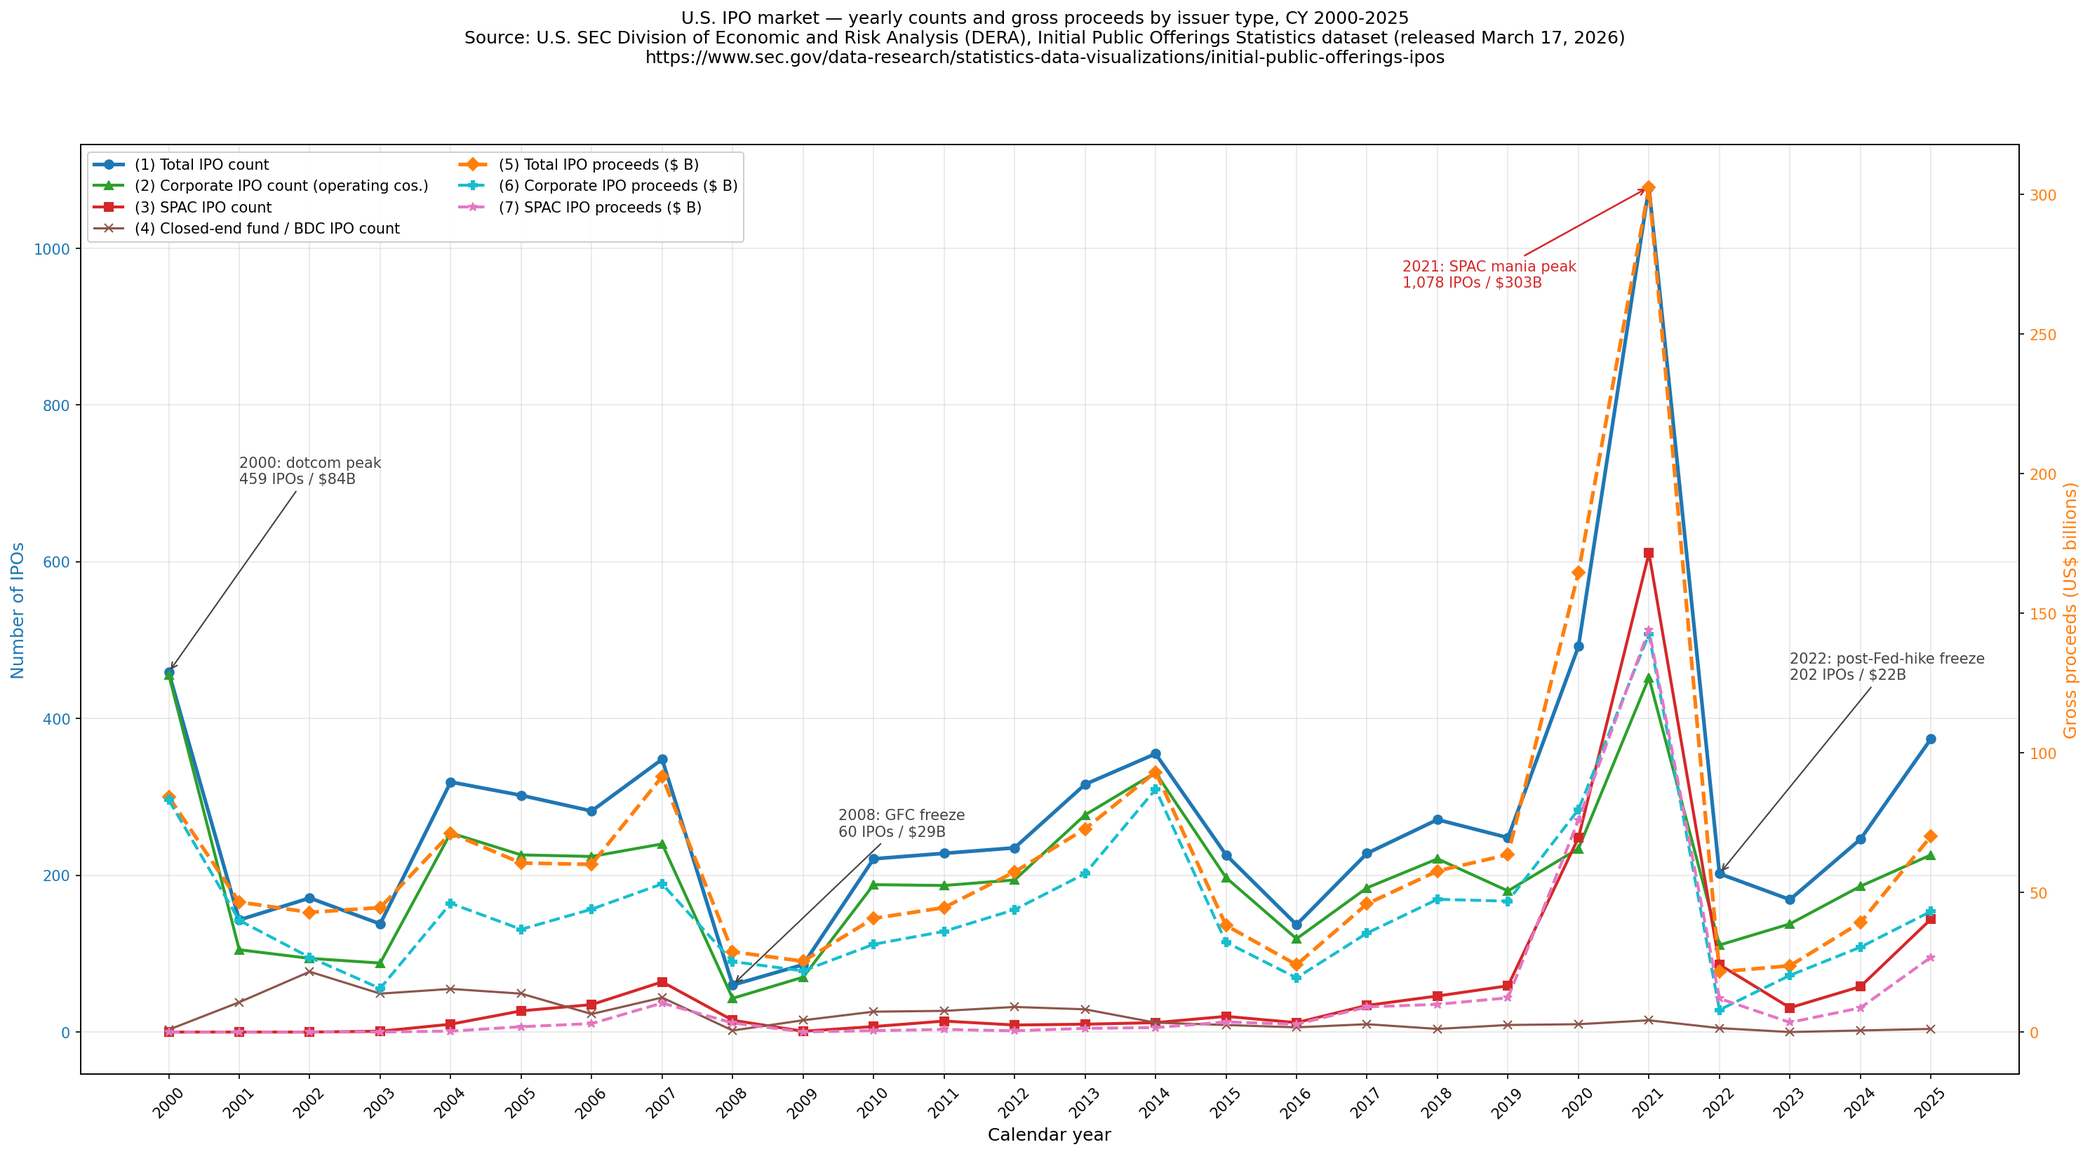
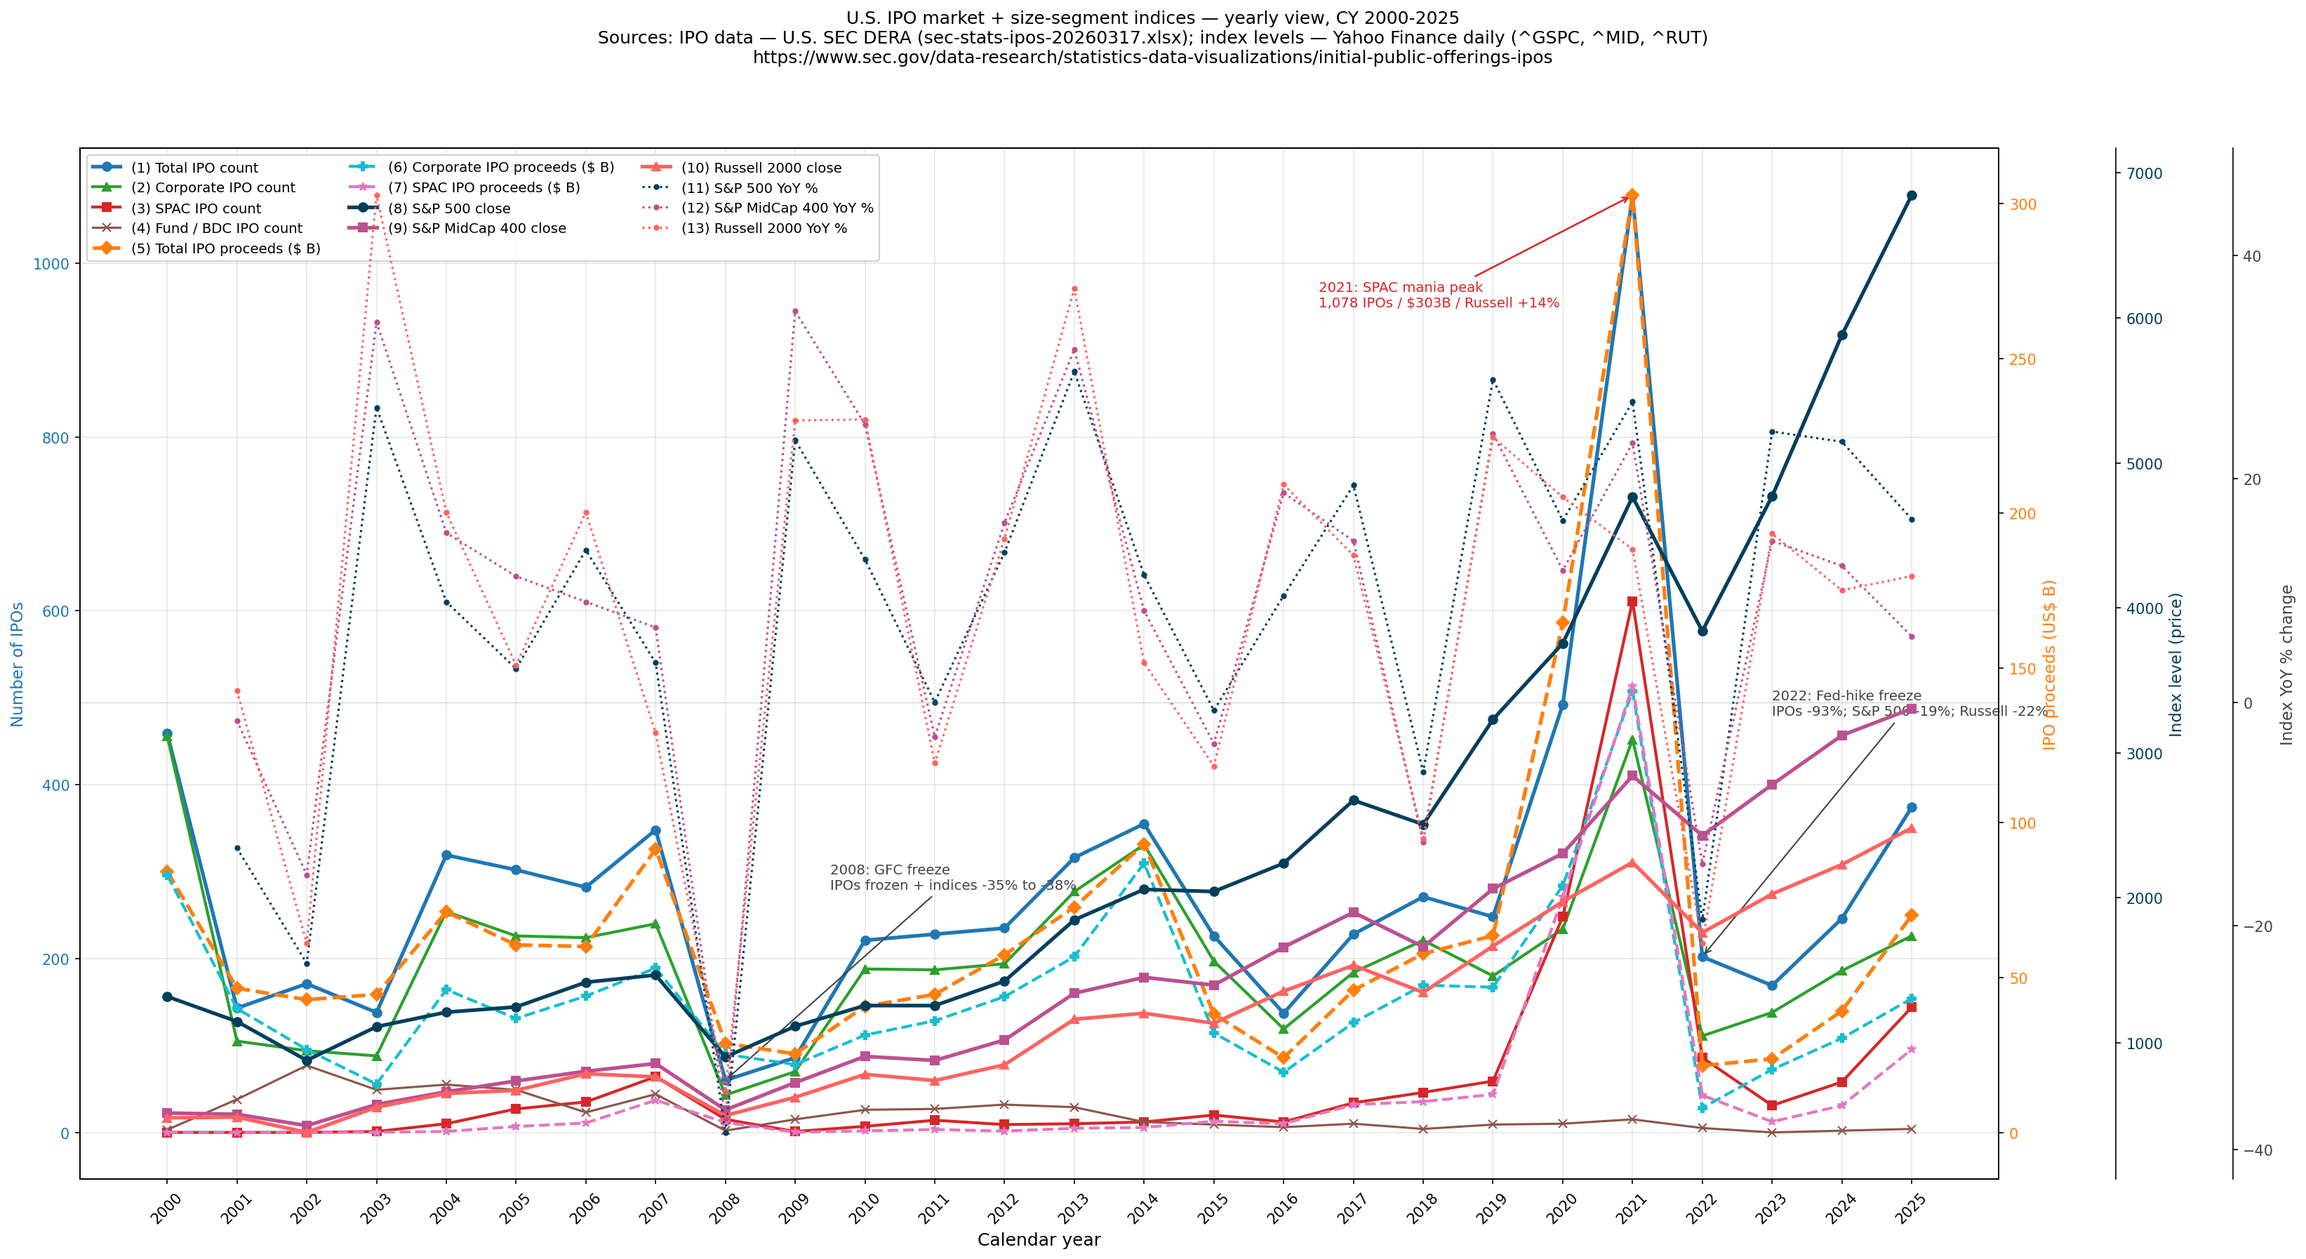
Add US index levels + YoY % to interactive HTML and static PNG
Added 6 new line traces to MarketTiming/US/us_ipo_interactive.html
and MarketTiming/US/us_ipo_combined.png:

  Index levels (new yaxis4, right side at position 1.12):
  - (13) S&P 500 year-end close (navy #003f5c, defaultOn)
  - (14) S&P MidCap 400 year-end close (magenta #bc5090, defaultOn)
  - (15) Russell 2000 year-end close (coral #ff6361, defaultOn)

  Index YoY % changes (new yaxis5, right side at position 1.18):
  - (16) S&P 500 YoY % (defaultOn=false)
  - (17) S&P MidCap 400 YoY % (defaultOn=false)
  - (18) Russell 2000 YoY % (defaultOn=false)

Each pair shares a color across the index-level + YoY% versions
(solid line for level, dashed for YoY %) so visual identity tracks
the index across the two axes.

HTML changes:
- DATA payload extended with 6 new arrays (sp500_level, sp500_yoy,
  sp400_level, sp400_yoy, rut_level, rut_yoy) — 26 elements each
- MAIN_LAYOUT margin widened (r: 220 -> 320) and legend offset to
  x=1.22 to fit two new right-side axes
- Two new buttons in the preset bar: "Indices only" and "Index YoY only"
- Two new categories added to the checkbox panel:
  'Index level' and 'Index YoY %'
- Subtitle updated to mention the new series + Yahoo Finance source
- Total SERIES count: 12 -> 18; categories: 4 -> 6

Static PNG changes (plot_us_ipo.py):
- Refactored load() to merge the three index CSVs into the IPO
  dataframe, computing YoY % on the fly
- Plot now has 4 y-axes: counts (left), proceeds (right +0px),
[…]

diff --git a/MarketTiming/US/us_ipo_interactive.html b/MarketTiming/US/us_ipo_interactive.html
@@ -53,14 +53,15 @@
 <script src="https://cdn.plot.ly/plotly-2.35.2.min.js"></script>
 </head>
 <body>
-<h1>U.S. IPO market — interactive view, calendar years 2000-2025</h1>
+<h1>U.S. IPO market + size-segment indices — interactive view, calendar years 2000-2025</h1>
 <div class="subtitle">
-  IPO counts and gross proceeds by issuer type (corporate operating companies,
-  SPACs, closed-end funds / BDCs). Toggle individual series via the checkboxes
-  or the chart legend. Source:
+  IPO counts and gross proceeds by issuer type (corporate operating companies, SPACs,
+  closed-end funds / BDCs) plus year-end values and YoY % returns for the S&amp;P 500,
+  S&amp;P MidCap 400, and Russell 2000. Toggle individual series via the checkboxes or
+  the chart legend. Sources: IPO data —
   <a href="https://www.sec.gov/data-research/statistics-data-visualizations/initial-public-offerings-ipos"
-     target="_blank">U.S. SEC Division of Economic and Risk Analysis (DERA)</a>,
-  IPO Statistics dataset (release of March 17, 2026).
+     target="_blank">U.S. SEC DERA</a> (release of March 17, 2026); index levels —
+  Yahoo Finance daily (cross-checked vs FRED for S&amp;P 500 over its 10-year licensing window).
 </div>
 
 <div class="controls">
@@ -88,6 +89,8 @@
     <button onclick="setPresetProceeds()">Show proceeds only</button>
     <button onclick="setPresetCorporate()">Corporate only</button>
     <button onclick="setPresetSpac()">SPAC only</button>
+    <button onclick="setPresetIndices()">Indices only</button>
+    <button onclick="setPresetIndexYoy()">Index YoY only</button>
     <button onclick="setDefault()">Default</button>
   </div>
 </div>
@@ -497,6 +500,36 @@ const DATA = {
     null, null, null, null, null, null, null, null, null, null,
     null, null, null, null, null, null, null, null, null, null,
     null, null, null, null, null, null
+  ],
+  "sp500_level": [
+    1320.28, 1148.08, 879.82, 1111.92, 1211.92, 1248.29, 1418.30, 1468.36, 903.25, 1115.10,
+    1257.64, 1257.60, 1426.19, 1848.36, 2058.90, 2043.94, 2238.83, 2673.61, 2506.85, 3230.78,
+    3756.07, 4766.18, 3839.50, 4769.83, 5881.63, 6845.50
+  ],
+  "sp500_yoy": [
+    null, -13.04, -23.37, 26.38, 8.99, 3.00, 13.62, 3.53, -38.49, 23.45,
+    12.78, 0.00, 13.41, 29.60, 11.39, -0.73, 9.54, 19.42, -6.24, 28.88,
+    16.26, 26.89, -19.44, 24.23, 23.31, 16.39
+  ],
+  "sp400_level": [
+    516.74, 508.31, 429.79, 576.01, 663.31, 738.05, 804.37, 858.20, 538.28, 726.67,
+    907.25, 879.16, 1020.43, 1342.53, 1452.44, 1398.58, 1660.58, 1900.57, 1663.04, 2063.02,
+    2306.62, 2842.00, 2430.38, 2781.54, 3120.94, 3305.14
+  ],
+  "sp400_yoy": [
+    null, -1.63, -15.45, 34.02, 15.16, 11.27, 8.99, 6.69, -37.28, 35.00,
+    24.85, -3.10, 16.07, 31.57, 8.19, -3.71, 18.73, 14.45, -12.50, 24.05,
+    11.81, 23.21, -14.48, 14.45, 12.20, 5.90
+  ],
+  "rut_level": [
+    483.53, 488.50, 383.09, 556.91, 651.57, 673.22, 787.66, 766.03, 499.45, 625.39,
+    783.65, 740.92, 849.35, 1163.64, 1204.70, 1135.89, 1357.13, 1535.51, 1348.56, 1668.47,
+    1974.86, 2245.31, 1761.25, 2027.07, 2230.16, 2481.91
+  ],
+  "rut_yoy": [
+    null, 1.03, -21.58, 45.37, 17.00, 3.32, 17.00, -2.75, -34.80, 25.22,
+    25.31, -5.45, 14.63, 37.00, 3.53, -5.71, 19.48, 13.14, -12.18, 23.72,
+    18.36, 13.69, -21.56, 15.09, 10.02, 11.29
   ]
 };
 const YRS = DATA.years;
@@ -573,14 +606,54 @@ const SERIES = [
       line:{color:'#c5b0d5', width:1.5, dash:'dot'}, yaxis:'y3',
       hovertemplate: '%{x}: <b>$%{y:.1f}M</b><extra>Median deal</extra>' },
     swatch:'dashed', color:'#c5b0d5', defaultOn:false },
+
+  // US index levels -> y4 (right axis, position 1.12)
+  { id:'sp500_lvl', label:'(13) S&P 500 year-end close', cat:'Index level',
+    trace: { name:'(13) S&P 500 close', x:YRS, y:DATA.sp500_level,
+      mode:'lines+markers', marker:{symbol:'circle', size:6},
+      line:{color:'#003f5c', width:2.5}, yaxis:'y4',
+      hovertemplate: '%{x}: <b>%{y:,.2f}</b><extra>S&P 500</extra>' },
+    swatch:'solid', color:'#003f5c', defaultOn:true },
+  { id:'sp400_lvl', label:'(14) S&P MidCap 400 year-end close', cat:'Index level',
+    trace: { name:'(14) S&P MidCap 400 close', x:YRS, y:DATA.sp400_level,
+      mode:'lines+markers', marker:{symbol:'square', size:6},
+      line:{color:'#bc5090', width:2.5}, yaxis:'y4',
+      hovertemplate: '%{x}: <b>%{y:,.2f}</b><extra>S&P 400</extra>' },
+    swatch:'solid', color:'#bc5090', defaultOn:true },
+  { id:'rut_lvl', label:'(15) Russell 2000 year-end close', cat:'Index level',
+    trace: { name:'(15) Russell 2000 close', x:YRS, y:DATA.rut_level,
+      mode:'lines+markers', marker:{symbol:'triangle-up', size:6},
+      line:{color:'#ff6361', width:2.5}, yaxis:'y4',
+      hovertemplate: '%{x}: <b>%{y:,.2f}</b><extra>Russell 2000</extra>' },
+    swatch:'solid', color:'#ff6361', defaultOn:true },
+
+  // US index YoY % -> y5 (right axis, position 1.18)
+  { id:'sp500_yoy', label:'(16) S&P 500 YoY %', cat:'Index YoY %',
+    trace: { name:'(16) S&P 500 YoY %', x:YRS, y:DATA.sp500_yoy,
+      mode:'lines+markers', marker:{symbol:'circle-open', size:5},
+      line:{color:'#003f5c', width:1.5, dash:'dash'}, yaxis:'y5',
+      hovertemplate: '%{x}: <b>%{y:+.2f}%</b><extra>S&P 500 YoY</extra>' },
+    swatch:'dashed', color:'#003f5c', defaultOn:false },
+  { id:'sp400_yoy', label:'(17) S&P MidCap 400 YoY %', cat:'Index YoY %',
+    trace: { name:'(17) S&P MidCap 400 YoY %', x:YRS, y:DATA.sp400_yoy,
+      mode:'lines+markers', marker:{symbol:'square-open', size:5},
+      line:{color:'#bc5090', width:1.5, dash:'dash'}, yaxis:'y5',
+      hovertemplate: '%{x}: <b>%{y:+.2f}%</b><extra>S&P 400 YoY</extra>' },
+    swatch:'dashed', color:'#bc5090', defaultOn:false },
+  { id:'rut_yoy', label:'(18) Russell 2000 YoY %', cat:'Index YoY %',
+    trace: { name:'(18) Russell 2000 YoY %', x:YRS, y:DATA.rut_yoy,
+      mode:'lines+markers', marker:{symbol:'triangle-up-open', size:5},
+      line:{color:'#ff6361', width:1.5, dash:'dash'}, yaxis:'y5',
+      hovertemplate: '%{x}: <b>%{y:+.2f}%</b><extra>Russell 2000 YoY</extra>' },
+    swatch:'dashed', color:'#ff6361', defaultOn:false },
 ];
 
 const MAIN_TRACES = SERIES.map(s => ({...s.trace, visible: s.defaultOn ? true : 'legendonly'}));
 
 const MAIN_LAYOUT = {
-  margin: { l: 70, r: 220, t: 10, b: 70 },
+  margin: { l: 70, r: 320, t: 10, b: 70 },
   hovermode: 'x unified',
-  legend: { x: 1.10, y: 1, font: {size: 11}, xanchor: 'left',
+  legend: { x: 1.22, y: 1, font: {size: 11}, xanchor: 'left',
             bgcolor: '#ffffff', bordercolor: '#dddddd', borderwidth: 1 },
   xaxis: {
     title: { text: 'Calendar year', font:{size:12} },
@@ -601,6 +674,17 @@ const MAIN_LAYOUT = {
     title: { text: 'Avg / median deal size ($ M)', font:{color:'#666', size:12}, standoff: 6 },
     tickfont: {color:'#666', size:11},
     overlaying: 'y', side: 'right', anchor: 'free', position: 1.06,
+  },
+  yaxis4: {
+    title: { text: 'Index level (price)', font:{color:'#003f5c', size:12}, standoff: 6 },
+    tickfont: {color:'#003f5c', size:11},
+    overlaying: 'y', side: 'right', anchor: 'free', position: 1.12,
+  },
+  yaxis5: {
+    title: { text: 'Index YoY %', font:{color:'#444', size:12}, standoff: 6 },
+    tickfont: {color:'#444', size:11},
+    overlaying: 'y', side: 'right', anchor: 'free', position: 1.18,
+    zeroline: true, zerolinecolor: '#ccc',
   },
   annotations: [
     { x: 2021, y: 1078, xref:'x', yref:'y', ax: -60, ay: -40,
@@ -630,7 +714,7 @@ Plotly.newPlot('main_chart', MAIN_TRACES, MAIN_LAYOUT, CONFIG);
 function buildSeriesPanel() {
   const root = document.getElementById('seriesGroups');
   root.innerHTML = '';
-  const cats = ['Counts', 'Counts (by domicile)', 'Proceeds', 'Deal size'];
+  const cats = ['Counts', 'Counts (by domicile)', 'Proceeds', 'Deal size', 'Index level', 'Index YoY %'];
   for (const cat of cats) {
     const grp = document.createElement('div');
     grp.className = 'series-group';
@@ -698,6 +782,8 @@ function setPresetCounts()    { setOnlyCats(['Counts']); }
 function setPresetProceeds()  { setOnlyCats(['Proceeds']); }
 function setPresetCorporate() { setOnlyIds(['cnt_corp', 'amt_corp']); }
 function setPresetSpac()      { setOnlyIds(['cnt_spac', 'amt_spac']); }
+function setPresetIndices()   { setOnlyCats(['Index level']); }
+function setPresetIndexYoy()  { setOnlyCats(['Index YoY %']); }
 function setDefault() {
   SERIES.forEach((s, i) => {
     const v = s.defaultOn ? true : 'legendonly';

diff --git a/MarketTiming/US/plot_us_ipo.py b/MarketTiming/US/plot_us_ipo.py
@@ -1,10 +1,15 @@
 """
-Plot US IPO annual statistics — counts and proceeds across 2000-2025.
+Plot US IPO annual statistics + size-segment indices across 2000-2025.
 
-Reads us_ipo_data.csv (SEC DERA source) and renders a multi-axis line
-chart with:
-  - Left axis: IPO counts (total, corporate, SPAC)
-  - Right axis: IPO gross proceeds in $ billions (total, corporate, SPAC)
+Reads:
+  - us_ipo_data.csv (SEC DERA source)
+  - sp500_data.csv, sp_midcap400_data.csv, russell2000_data.csv (Yahoo)
+
+Renders a multi-axis line chart with:
+  - Left axis (y1): IPO counts (total, corporate, SPAC, fund)
+  - Right axis (y2): IPO gross proceeds in $ billions
+  - Right axis 2 (y3): US index levels (S&P 500, S&P 400, Russell 2000)
+  - Right axis 3 (y4): US index YoY % changes
 
 Output: us_ipo_combined.png
 
@@ -21,34 +26,51 @@ HERE = Path(__file__).parent
 OUT = HERE / "us_ipo_combined.png"
 
 
-def load() -> pd.DataFrame:
-    df = pd.read_csv(HERE / "us_ipo_data.csv")
-    # Convert proceeds from $M to $B for chart readability
+def load():
+    ipo = pd.read_csv(HERE / "us_ipo_data.csv")
     for c in ["ipo_proceeds_total_usd_mn", "ipo_proceeds_corporate_usd_mn",
               "ipo_proceeds_spac_usd_mn", "ipo_proceeds_fund_usd_mn"]:
-        df[c.replace("_mn", "_bn")] = df[c] / 1000
+        ipo[c.replace("_mn", "_bn")] = ipo[c] / 1000
+
+    def load_index(csv_name, prefix):
+        df = pd.read_csv(HERE / csv_name)
+        df = df[["calendar_year", "year_end_close"]].rename(
+            columns={"year_end_close": f"{prefix}_level"})
+        df[f"{prefix}_yoy"] = (df[f"{prefix}_level"].pct_change() * 100).round(2)
+        return df
+
+    sp500 = load_index("sp500_data.csv", "sp500")
+    sp400 = load_index("sp_midcap400_data.csv", "sp400")
+    rut   = load_index("russell2000_data.csv", "rut")
+    df = ipo.merge(sp500, on="calendar_year")\
+            .merge(sp400, on="calendar_year")\
+            .merge(rut,   on="calendar_year")
     return df
 
 
-def plot(df: pd.DataFrame) -> None:
-    fig, ax_count = plt.subplots(figsize=(20, 11))
+def plot(df):
+    fig, ax_count = plt.subplots(figsize=(22, 12))
     ax_amount = ax_count.twinx()
+    ax_level  = ax_count.twinx()
+    ax_yoy    = ax_count.twinx()
+
+    # Spread the three right-side axes
+    ax_amount.spines["right"].set_position(("outward", 0))
+    ax_level.spines["right"].set_position(("outward", 80))
+    ax_yoy.spines["right"].set_position(("outward", 160))
 
     x = df["calendar_year"]
 
-    # --- Counts on left axis ---
     cnt_lines = [
         ax_count.plot(x, df["ipo_count_total"], marker="o", linewidth=2.5,
                       color="#1f77b4", label="(1) Total IPO count")[0],
         ax_count.plot(x, df["ipo_count_corporate"], marker="^", linewidth=2,
-                      color="#2ca02c", label="(2) Corporate IPO count (operating cos.)")[0],
+                      color="#2ca02c", label="(2) Corporate IPO count")[0],
         ax_count.plot(x, df["ipo_count_spac"], marker="s", linewidth=2,
                       color="#d62728", label="(3) SPAC IPO count")[0],
         ax_count.plot(x, df["ipo_count_fund"], marker="x", linewidth=1.5,
-                      color="#8c564b", label="(4) Closed-end fund / BDC IPO count")[0],
+                      color="#8c564b", label="(4) Fund / BDC IPO count")[0],
     ]
-
-    # --- Proceeds in $ billions on right axis ---
     amt_lines = [
         ax_amount.plot(x, df["ipo_proceeds_total_usd_bn"], marker="D", linewidth=2.5,
                        color="#ff7f0e", linestyle="--",
@@ -60,57 +82,74 @@ def plot(df: pd.DataFrame) -> None:
                        color="#e377c2", linestyle="--",
                        label="(7) SPAC IPO proceeds ($ B)")[0],
     ]
+    lvl_lines = [
+        ax_level.plot(x, df["sp500_level"], marker="o", linewidth=2.5,
+                      color="#003f5c", label="(8) S&P 500 close")[0],
+        ax_level.plot(x, df["sp400_level"], marker="s", linewidth=2.5,
+                      color="#bc5090", label="(9) S&P MidCap 400 close")[0],
+        ax_level.plot(x, df["rut_level"], marker="^", linewidth=2.5,
+                      color="#ff6361", label="(10) Russell 2000 close")[0],
+    ]
+    yoy_lines = [
+        ax_yoy.plot(x, df["sp500_yoy"], marker=".", linewidth=1.5,
+                    color="#003f5c", linestyle=":",
+                    label="(11) S&P 500 YoY %")[0],
+        ax_yoy.plot(x, df["sp400_yoy"], marker=".", linewidth=1.5,
+                    color="#bc5090", linestyle=":",
+                    label="(12) S&P MidCap 400 YoY %")[0],
+        ax_yoy.plot(x, df["rut_yoy"], marker=".", linewidth=1.5,
+                    color="#ff6361", linestyle=":",
+                    label="(13) Russell 2000 YoY %")[0],
+    ]
+    ax_yoy.axhline(0, color="grey", linewidth=0.5, alpha=0.4)
 
-    # --- Axes formatting ---
     ax_count.set_xlabel("Calendar year", fontsize=12)
-    ax_count.set_ylabel("Number of IPOs", color="#1f77b4", fontsize=12)
-    ax_amount.set_ylabel("Gross proceeds (US$ billions)",
-                         color="#ff7f0e", fontsize=12)
+    ax_count.set_ylabel("Number of IPOs", color="#1f77b4", fontsize=11)
+    ax_amount.set_ylabel("IPO proceeds (US$ B)", color="#ff7f0e", fontsize=11)
+    ax_level.set_ylabel("Index level (price)", color="#003f5c", fontsize=11)
+    ax_yoy.set_ylabel("Index YoY % change", color="#444", fontsize=11)
+
     ax_count.tick_params(axis="y", labelcolor="#1f77b4")
     ax_amount.tick_params(axis="y", labelcolor="#ff7f0e")
+    ax_level.tick_params(axis="y", labelcolor="#003f5c")
+    ax_yoy.tick_params(axis="y", labelcolor="#444")
 
     ax_count.set_xticks(x)
     ax_count.set_xticklabels(x, rotation=45)
     ax_count.grid(True, alpha=0.3)
 
-    # --- Annotate the two extreme years ---
+    # Annotations on extreme years
     ax_count.annotate(
-        "2021: SPAC mania peak\n1,078 IPOs / $303B",
-        xy=(2021, 1078), xytext=(2017.5, 950),
-        fontsize=10, color="#d62728",
+        "2021: SPAC mania peak\n1,078 IPOs / $303B / Russell +14%",
+        xy=(2021, 1078), xytext=(2016.5, 950),
+        fontsize=9.5, color="#d62728",
         arrowprops=dict(arrowstyle="->", color="#d62728", lw=1.2),
     )
     ax_count.annotate(
-        "2008: GFC freeze\n60 IPOs / $29B",
-        xy=(2008, 60), xytext=(2009.5, 250),
-        fontsize=10, color="#444",
+        "2008: GFC freeze\nIPOs frozen + indices -35% to -38%",
+        xy=(2008, 60), xytext=(2009.5, 280),
+        fontsize=9.5, color="#444",
         arrowprops=dict(arrowstyle="->", color="#444", lw=1.0),
     )
     ax_count.annotate(
-        "2000: dotcom peak\n459 IPOs / $84B",
-        xy=(2000, 459), xytext=(2001, 700),
-        fontsize=10, color="#444",
-        arrowprops=dict(arrowstyle="->", color="#444", lw=1.0),
-    )
-    ax_count.annotate(
-        "2022: post-Fed-hike freeze\n202 IPOs / $22B",
-        xy=(2022, 202), xytext=(2023, 450),
-        fontsize=10, color="#444",
+        "2022: Fed-hike freeze\nIPOs -93%; S&P 500 -19%; Russell -22%",
+        xy=(2022, 202), xytext=(2023, 480),
+        fontsize=9.5, color="#444",
         arrowprops=dict(arrowstyle="->", color="#444", lw=1.0),
     )
 
     fig.suptitle(
-        "U.S. IPO market — yearly counts and gross proceeds by issuer type, CY 2000-2025\n"
-        "Source: U.S. SEC Division of Economic and Risk Analysis (DERA), "
-        "Initial Public Offerings Statistics dataset (released March 17, 2026)\n"
+        "U.S. IPO market + size-segment indices — yearly view, CY 2000-2025\n"
+        "Sources: IPO data — U.S. SEC DERA (sec-stats-ipos-20260317.xlsx); "
+        "index levels — Yahoo Finance daily (^GSPC, ^MID, ^RUT)\n"
         "https://www.sec.gov/data-research/statistics-data-visualizations/initial-public-offerings-ipos",
         fontsize=12, y=0.995,
     )
 
-    lines = cnt_lines + amt_lines
+    lines = cnt_lines + amt_lines + lvl_lines + yoy_lines
     labels = [ln.get_label() for ln in lines]
-    ax_count.legend(lines, labels, loc="upper left", fontsize=10,
-                    framealpha=0.92, ncol=2)
+    ax_count.legend(lines, labels, loc="upper left", fontsize=9.5,
+                    framealpha=0.92, ncol=3)
 
     fig.tight_layout(rect=(0, 0, 1, 0.96))
     fig.savefig(OUT, dpi=150, bbox_inches="tight")
